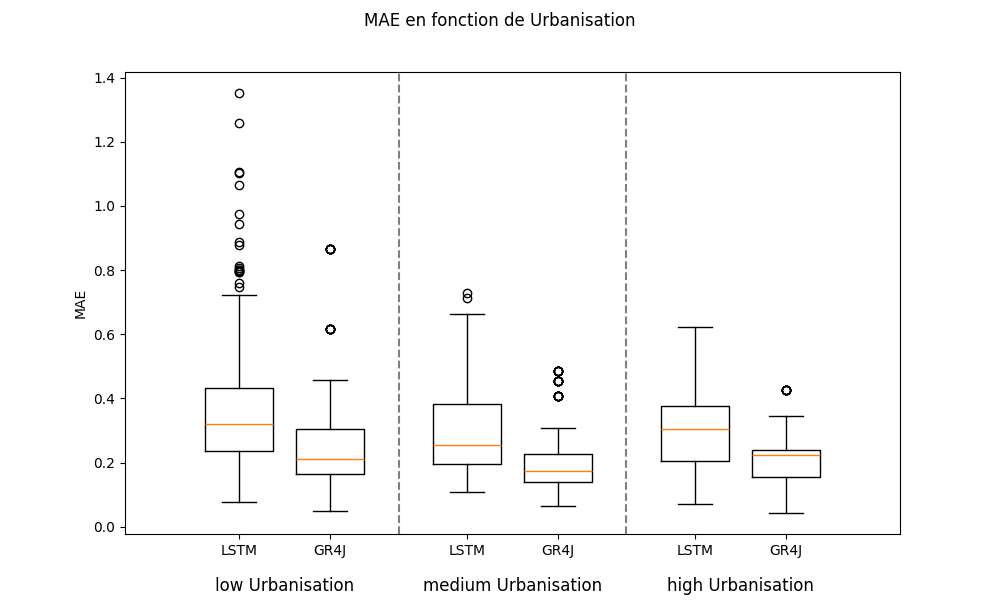
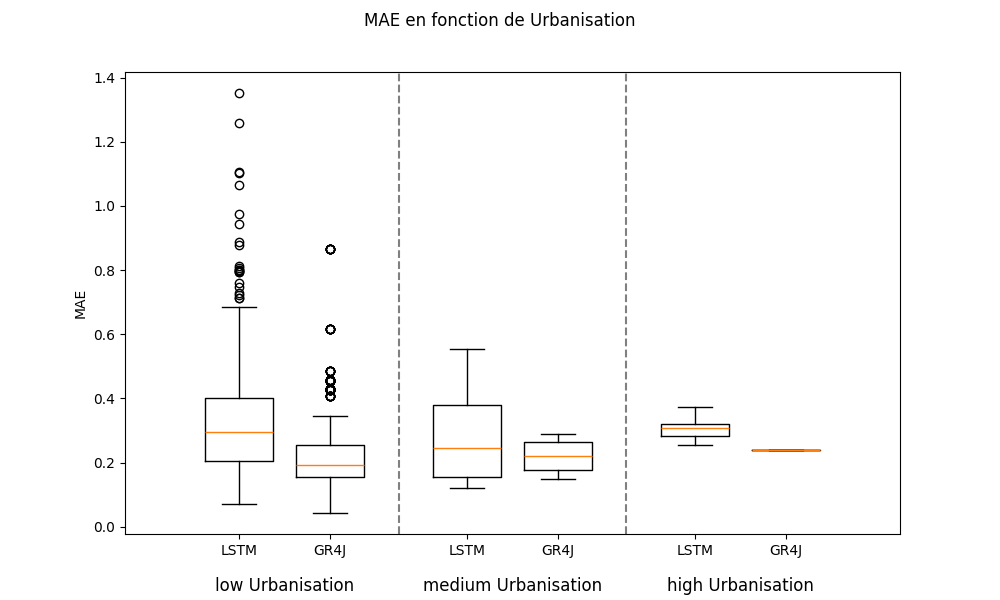
version finale x4

diff --git a/plots.py b/plots.py
@@ -377,32 +377,46 @@ def plot_performance(df):
     """Plot la performance en NSE et MAE en fonction des aridités, urbanisations, surfaces"""
     labelss = ['low', 'medium', 'high']
     # Group by aridite
-    df['arid_group'] = pd.qcut(df['Arid'], len(labelss), labels=labelss)
-    plot_boxplot(df, 'arid_group', 'Aridité', labelss)
+    def cut_into_groups(df, column, labels):
+        min_val = df[column].min()
+        max_val = df[column].max()
+        bins = np.linspace(min_val, max_val, len(labels) + 1)
+        df[f'{column}_group'] = pd.cut(df[column], bins=bins, labels=labels, include_lowest=True)
+        return df, f'{column}_group'
+
+    df, name = cut_into_groups(df, 'Arid', labelss)
+    # df['arid_group'] = pd.qcut(df['Arid'], len(labelss), labels=labelss)
+    plot_boxplot(df, 'Arid_group', name, labelss)
 
     # Group by urbanisation
-    df['urban_group'] = pd.qcut(df['DEV12'], len(labelss), labels=labelss)
-    plot_boxplot(df, 'urban_group', 'Urbanisation', labelss)
+    df, name = cut_into_groups(df, 'DEV12', labelss)
+    # df['urban_group'] = pd.qcut(df['DEV12'], len(labelss), labels=labelss)
+    plot_boxplot(df, name, 'Urbanisation', labelss)
 
     # Group by surface
-    df['surface_group'] = pd.qcut(df['AREA_SQKM_'], len(labelss), labels=labelss)
-    plot_boxplot(df, 'surface_group', 'Surface', labelss)
+    df, name = cut_into_groups(df, 'AREA_SQKM_', labelss)
+    # df['surface_group'] = pd.qcut(df['AREA_SQKM_'], len(labelss), labels=labelss)
+    plot_boxplot(df, name, 'Surface', labelss)
 
     # Group by neige
-    df['neige_group'] = pd.qcut(df['NEI_F'], len(labelss), labels=labelss)
-    plot_boxplot(df, 'neige_group', 'Neige', labelss)
+    df, name = cut_into_groups(df, 'NEI_F', labelss)
+    # df['neige_group'] = pd.qcut(df['NEI_F'], len(labelss), labels=labelss)
+    plot_boxplot(df, name, 'Neige', labelss)
 
     # Group by etp
-    df['etp_group'] = pd.qcut(df['ETPm'], len(labelss), labels=labelss)
-    plot_boxplot(df, 'etp_group', 'ETP', labelss)
+    df, name = cut_into_groups(df, 'ETPm', labelss)
+    # df['etp_group'] = pd.qcut(df['ETPm'], len(labelss), labels=labelss)
+    plot_boxplot(df, name, 'ETP', labelss)
 
     # Group by pluie
-    df['pluie_group'] = pd.qcut(df['Pm'], len(labelss), labels=labelss)
-    plot_boxplot(df, 'pluie_group', 'Pluie', labelss)
+    df, name = cut_into_groups(df, 'Pm', labelss)
+    # df['pluie_group'] = pd.qcut(df['Pm'], len(labelss), labels=labelss)
+    plot_boxplot(df, name, 'Pluie', labelss)
 
     # Group by ruissellement
-    df['ruissellement_group'] = pd.qcut(df['mean_flow_mm'] / df['mean_precip'], len(labelss), labels=labelss)
-    plot_boxplot(df, 'ruissellement_group', 'Ruissellement', labelss)
+    df, name = cut_into_groups(df, 'mean_flow_mm', labelss)
+    # df['ruissellement_group'] = pd.qcut(df['mean_flow_mm'] / df['mean_precip'], len(labelss), labels=labelss)
+    plot_boxplot(df, name, 'Ruissellement', labelss)
 
 
 def plot_boxplot(df, group_col, group_name, labels):
@@ -461,7 +475,6 @@ def plot_boxplot(df, group_col, group_name, labels):
     plt.close(mae)
     plt.close(nse)
 
-
 def boxplot_mae_nse(df):
     """Plot des boites à moustaches pour les MAE et NSE"""
     seq_lengths = df['seq_len_LSTM'].unique()
@@ -470,16 +483,43 @@ def boxplot_mae_nse(df):
     ax1.set_ylabel('MAE')
     for i, length in enumerate(seq_lengths):
         data = df.loc[df['seq_len_LSTM'] == length, ['MAE_test_LSTM','loss_fonction_LSTM']]
+
         data_bis = data.loc[df['loss_fonction_LSTM'] == 'MAE', 'MAE_test_LSTM']
         ax1.boxplot(data_bis, positions=[i], tick_labels=[f'MAE_{length}'])
 
         data_ter = data.loc[df['loss_fonction_LSTM'] == 'NSE', 'MAE_test_LSTM']
-        ax1.boxplot(data_ter, positions=[i+len(seq_lengths)+2], tick_labels=[f'NSE_{length}'])
+        ax1.boxplot(data_ter, positions=[i+len(seq_lengths)], tick_labels=[f'NSE_{length}'])
 
-    ax1.boxplot(df.loc[df['best_MAE_val_LSTM'] == True, 'MAE_test_LSTM'], positions=[len(seq_lengths)], tick_labels=['MAE'])
-    ax1.boxplot(df.loc[df['best_NSE_val_LSTM'] == True, 'MAE_test_LSTM'], positions=[len(seq_lengths)+1], tick_labels=['NSE'])
-    ax1.axvline(x=len(seq_lengths) + 0.5, color='grey', linestyle='--')
+    ax1.axvline(x=len(seq_lengths) - 0.5, color='grey', linestyle='--')
     mae.savefig(os.path.join(dir_plots, 'boxplot_MAE_NSE.png'))
+
+    mae_best, ax2 = plt.subplots(figsize=(10, 6))
+    mae_best.suptitle('MAE en fonction de l\'optimisation des MAE et NSE')
+    ax2.set_ylabel('MAE')
+    ax2.boxplot(df.loc[df['best_MAE_val_LSTM'] == True, 'MAE_test_LSTM'], positions=[0], tick_labels=['MAE'])
+    ax2.boxplot(df.loc[df['best_NSE_val_LSTM'] == True, 'MAE_test_LSTM'], positions=[1], tick_labels=['NSE'])
+    ax2.axvline(x= 0.5, color='grey', linestyle='--')
+    mae_best.savefig(os.path.join(dir_plots, 'boxplot_MAE_NSE_best.png'))
+
+    # time evaluation
+    timed, ax = plt.subplots(figsize=(10, 6))
+    timed.suptitle('Temps de calcul en fonction de seq_len et loss function')
+    ax.set_ylabel('Temps de calcul (s)')
+    for i, length in enumerate(seq_lengths):
+        data = df.loc[df['seq_len_LSTM'] == length, ['training_time_norm_LSTM','loss_fonction_LSTM']]
+
+        data_bis = data.loc[df['loss_fonction_LSTM'] == 'MAE', 'training_time_norm_LSTM']
+        ax.boxplot(data_bis, positions=[i], tick_labels=[f'MAE_{length}'])
+
+        data_ter = data.loc[df['loss_fonction_LSTM'] == 'NSE', 'training_time_norm_LSTM']
+        ax.boxplot(data_ter, positions=[i+len(seq_lengths)], tick_labels=[f'NSE_{length}'])
+
+    ax.axvline(x=len(seq_lengths) - 0.5, color='grey', linestyle='--')
+    timed.savefig(os.path.join(dir_plots, 'boxplot_time_MAE_NSE.png'))
+    ax.set_yscale('log')
+    plt.close(mae)
+    plt.close(mae_best)
+    plt.close(timed)
 
 # Plot 3D MAE/NSE en fonction de l'aridité, urbanisation
 def plot_3D(df):
